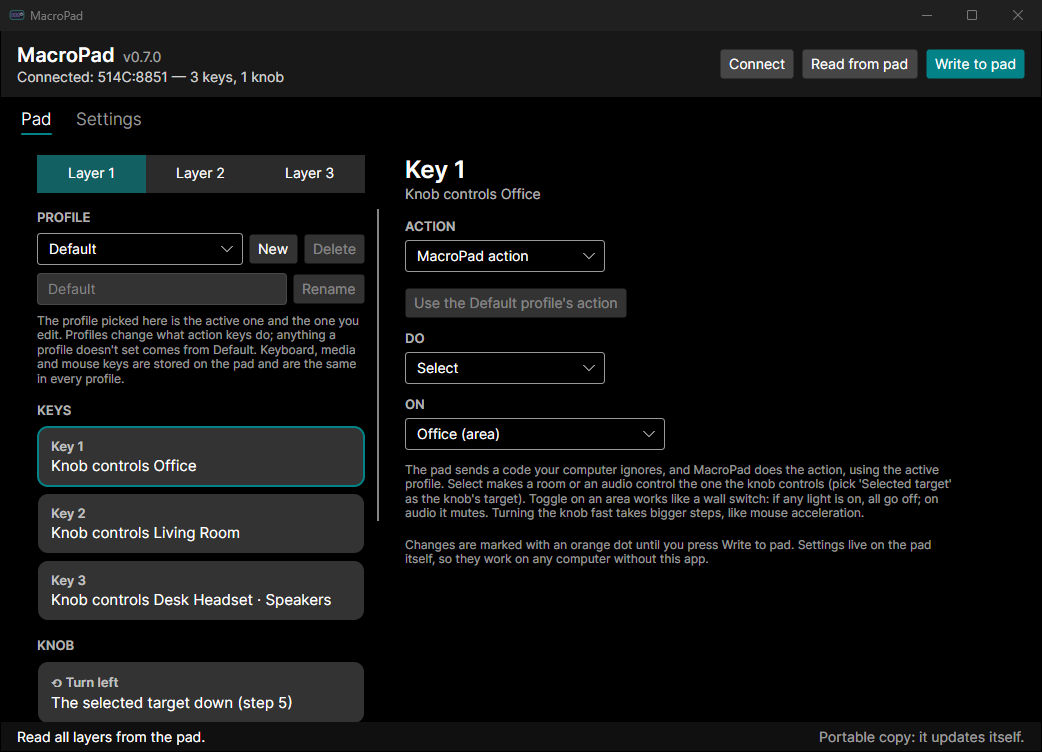
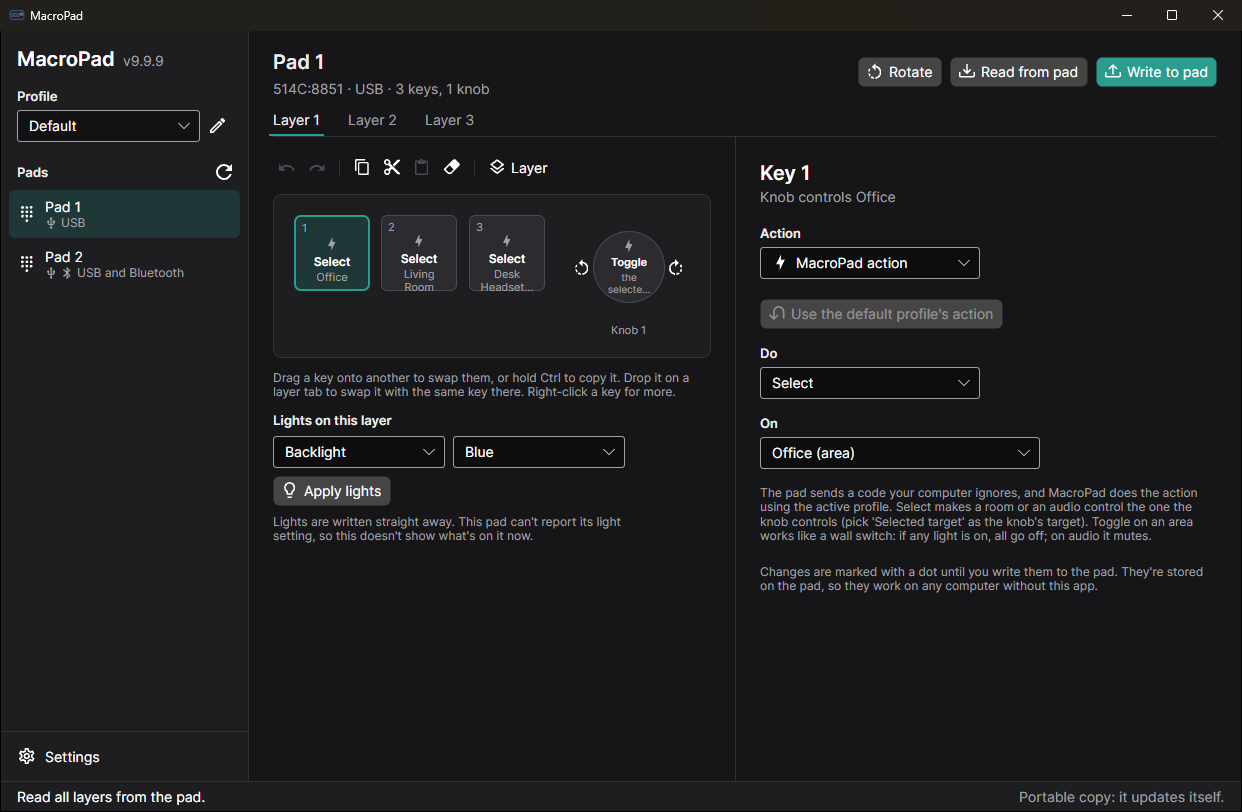
Docs and screenshots for the new window; quieter disabled knobs
AGENTS.md describes the views, view models, themes and icon tool and how
editing and undo work; the README covers editing, the 12-key pad's
lights and Bluetooth, with new screenshots against the fake services.
The screenshot script clicks the sidebar and adds the 12-key pad.

diff --git a/README.md b/README.md
@@ -13,11 +13,11 @@ MacroPad does two things:
    [Bragi](https://github.com/NickMarcha/bragi), or switch MacroPad's **profiles** (virtual layers that change what those keys do). For these,
    MacroPad runs in the tray and shows a pop-up for each change.
 
-![The Pad tab: layers, the profile, and each key's action](docs/images/pad.png)
+![A pad drawn as it is, its keys' actions, and the selected key's editor](docs/images/pad.png)
 
-| Settings | Pop-up |
-|---|---|
-| ![The Settings tab with the connections list](docs/images/settings.png) | ![A pop-up showing a room's brightness with a slider](docs/images/popup.png) |
+| The 12-key pad | Settings | Pop-up |
+|---|---|---|
+| ![The 12-key two-knob pad on its second layer](docs/images/pad-12.png) | ![Settings with the connections list and the pop-up position](docs/images/settings.png) | ![A pop-up showing a room's brightness with a slider](docs/images/popup.png) |
 
 ## Install
 
@@ -32,19 +32,33 @@ MacroPad does two things:
 
 ## 1. Programming the pad
 
-The **Pad** tab reads all three of the pad's layers. Pick a key or a knob action (turn left, press, turn right),
-choose what it does, and press *Write to pad*:
+Pick a pad in the sidebar and MacroPad reads all three of its layers and draws the pad as it looks. Click a key or a
+knob (turn left, press, turn right), choose what it does, and press *Write to pad*:
 
 - a keyboard shortcut, or a macro of up to 18 steps with an optional delay between them. Record the steps by
   pressing keys, or pick keys by name (F13–F24, or keys the OS grabs);
 - a media key (volume, play/pause, next track, …);
 - a mouse click, wheel or move, with modifiers held.
 
-The lights are set per layer (mode and color). Which layer the pad is on is chosen on the pad itself.
+Changed keys get a dot until they're written. Editing works like elsewhere:
 
-Tested with USB IDs `514C:8851` (3 keys, 1 knob) and `514C:8850` (12 keys, 2 knobs). The 12-key pad's keys are
-set over USB; its MacroPad actions also work over Bluetooth once it's paired in Windows. MacroPad doesn't set its
-lights yet. MacroPad also looks for the
+- *Undo* and *Redo* (Ctrl+Z, Ctrl+Y) go back and forth through every change since the pad was read;
+- *Copy*, *Cut*, *Paste* and *Clear* (Ctrl+C, Ctrl+X, Ctrl+V, Delete) work on the selected key;
+- drag a key onto another to swap them, or hold Ctrl to copy it; drop it on a layer tab to swap it with the same key
+  on that layer. Right-click a key for the same;
+- the *Layer* menu copies, swaps or clears a whole layer.
+
+*Rotate* turns the drawing to match how the pad sits on your desk, and clicking the pad's name renames it. Which
+layer the pad is on is chosen on the pad itself.
+
+**Lights.** The 3-key pad takes a mode and colour per layer. The 12-key pad has a colour per key: switch to
+*Lights*, pick a mode (on, when pressed, spreading from the press, rainbow, wave) and click keys to colour them. The
+same copy, paste, drag and undo work on colours. Its lights change on the pad as you edit them.
+
+**Bluetooth.** The 12-key pad's keys are set over USB. Paired in Windows, its MacroPad actions also work over
+Bluetooth, and the sidebar shows whether it's on USB, Bluetooth or both.
+
+Tested with USB IDs `514C:8851` (3 keys, 1 knob) and `514C:8850` (12 keys, 2 knobs). MacroPad also looks for the
 other IDs the vendor app supports (`1189`/`514C` with PIDs `8830`–`8833`, `8840`, `8842`), but those have not been
 tested.
 [docs/protocol.md](docs/protocol.md) describes how the protocol was worked out.
@@ -92,28 +106,30 @@ The profile picked in the window is the active one and the one you edit. To swit
   `macropad --profile next` or `macropad --profile <name>` (on Linux, in your desktop's keyboard settings);
 - the command line: a second `macropad` hands its arguments to the running one, so only one ever runs.
 
-**Export and import.** Under the profile list, *Export* saves the profile you're editing (or all of them) to a
-`.macropad.json` file, and *Import* adds the profiles from one; a name that's taken gets "(2)". The file holds only
-the profiles (what each action key does, and the knob's selection), never connection settings, tokens or keys, so it's
-safe to share. Targets name Home Assistant areas and lights and Bragi controls by id, so they work where the same ones
-exist. After an import, keys the profile uses that aren't MacroPad actions on this pad yet are switched to actions and
-marked as changes: *Write to pad* finishes the job.
+**Export and import.** The pencil next to the profile has *Rename*, *New*, *Make default* and *Delete*; its *Export*
+saves the profile you're editing (or all of them) to a `.macropad.json` file, and *Import* adds the profiles from one;
+a name that's taken gets "(2)". The file holds only the profiles (what each action key does, and the knob's
+selection), never connection settings, tokens or keys, so it's safe to share. Targets name Home Assistant areas and
+lights and Bragi controls by id, so they work where the same ones exist. After an import, keys the profile uses that
+aren't MacroPad actions on this pad yet are switched to actions and marked as changes: *Write to pad* finishes the
+job.
 
 Per-application profiles would build on this: a rule that picks the profile for the app in front.
 
 ### Several pads
 
 MacroPad works with several pads at once, also several of the same model. Each pad gets a number, and its action keys
-send codes from that number's own block, so a press says which pad it came from whichever USB port it's in. With
-more than one plugged in, a list in the header picks the pad to edit. Profiles cover all pads: a profile can give each
+send codes from that number's own block, so a press says which pad it came from whichever USB port it's in. The
+sidebar lists them; a pad you've named, or one paired over Bluetooth, stays listed while it's unplugged. Profiles cover all pads: a profile can give each
 pad's keys their own actions.
 
 A pad is recognised by its USB serial number. Pads that share a serial (cheap ones from one batch can) are told apart
-by their USB port instead; keep each in its port. Only one pad has been tested so far.
+by their USB port instead; keep each in its port. Two pads of different models have been tested together.
 
 ## Connections
 
-Settings → **Connections** lists the services MacroPad drives. Each one, once connected, adds its lights or audio
+**Settings** (bottom of the sidebar) holds what applies to the whole app: connections, theme (System, Dark, Light),
+pop-ups and the profile shortcut. **Connections** lists the services MacroPad drives. Each one, once connected, adds its lights or audio
 controls to the targets an action can use.
 
 ### Home Assistant (lights)
@@ -201,7 +217,8 @@ covers the one-time AUR setup).
   settings (`AppSettings.cs`), targets and the service interface (`Target.cs`), the knob's dial (`LevelDial.cs`),
   the Home Assistant client (`HomeAssistant/`), the Bragi client (`Bragi/`), key and media names, and install
   detection and self-update (`Updates/`).
-- `src/MacroPad.App`: the Avalonia UI.
+- `src/MacroPad.App`: the Avalonia UI. Colours, sizes and icons live in `Themes/`, so another theme is one more
+  dictionary there.
 - `tests/MacroPad.Core.Tests`: protocol tests built from real reports the pad sent, and tests for the services,
   profiles, the dial and updates.
 - `packaging/`: the Linux desktop entry, icon and udev rule, and the AUR package.
@@ -212,8 +229,8 @@ covers the one-time AUR setup).
 
 ## Known limitations
 
-- The pad cannot report its current light setting, so the lights panel shows what you are about to set, not what is
-  on the pad now.
+- The 3-key pad cannot report its current light setting, so its lights panel shows what you are about to set, not
+  what is on the pad now. The 12-key pad's lights are read from it.
 - Tested on Windows 11 and on CachyOS (KDE Plasma, the AUR package). Other Linux desktops should work but haven't
   been tried; on X11 the pop-up is a notification window, which window managers keep on top.
 - The Windows build is not code-signed, so SmartScreen warns the first time it runs.

diff --git a/AGENTS.md b/AGENTS.md
@@ -39,9 +39,11 @@ dotnet publish src/MacroPad.App -c Release -r win-x64 -o out    # or linux-x64: 
 
 - `src/MacroPad.Core` (no UI):
   - `Protocol.cs`, `Bindings.cs`, `Usages.cs`, `MacroPadDevice.cs`: the pad's protocol and HID access.
-  - `PadModel.cs`: what differs per model (packet format, key layout, lights, delay); `StepProtocol.cs` the
-    `514C:8850` format.
+  - `PadModel.cs`: what differs per model (packet format, lights, delay); `StepProtocol.cs` the `514C:8850` format,
+    its per-key lights included (`KeyLights.cs`).
+  - `PadLayout.cs`: where keys and knobs sit on the drawn pad (the vendor's arrangement), and turning it.
   - `Pads.cs`: telling pads apart (USB serial, else device path); `AppSettings.PadFor` numbers them.
+    `Pads.LinkBluetooth` ties a Bluetooth address to the pad's record (`PadRecord.Bluetooth`).
   - `PadListener.cs`: reads every pad's consumer-control reports in the background (a 16-bit usage; report ID 5 over
     USB, 3 over Bluetooth, taken from the report descriptor), over USB and Bluetooth.
   - `PadAction.cs`: actions, profiles, and `Triggers` (the codes action keys send, a block of `0x60` per pad).
@@ -49,12 +51,23 @@ dotnet publish src/MacroPad.App -c Release -r win-x64 -o out    # or linux-x64: 
   - `LevelDial.cs`, `KnobAcceleration.cs`: the knob (see below).
   - `AppSettings.cs` (settings.json, secrets protected with DPAPI on Windows), `ProfileFile.cs` (export/import).
   - `Updates/`: install detection (portable, package-managed, read-only, development) and self-update.
-- `src/MacroPad.App`: Avalonia UI. `MainViewModel` is split by concern: `.cs` (pad, layers, read/write, updates),
-  `.Services.cs` (connections, settings toggles), `.Actions.cs` (what a press does), `.Profiles.cs`, `.GitHub.cs`.
-  Platform bits: `Autostart.cs`, `MenuShortcut.cs` (Start menu .lnk / desktop entry), `GlobalHotkey.cs` (Windows),
-  `X11Notification.cs` (Linux pop-up), `SingleInstance.cs`, `Program.cs` (update hand-over).
+- `src/MacroPad.App`: Avalonia UI.
+  - `Views/`: `MainWindow` (sidebar: profile, pads, Settings), `PadPage` (the drawn pad, layers, Keys/Lights; its
+    code-behind does dragging, the right-click and Layer menus and shortcuts), `SlotEditor` (one key's action),
+    `SettingsPage`, `ToastWindow` (pop-up).
+  - `ViewModels/`: `MainViewModel` is split by concern: `.cs` (pads, layers, read/write, updates), `.Edit.cs` (undo,
+    copy/paste, drag and layer operations), `.Lights.cs` (per-key lights), `.Services.cs` (connections, settings),
+    `.Actions.cs` (what a press does), `.Profiles.cs`, `.GitHub.cs`. `SlotViewModel` is one key or knob action
+    (`SlotContent` is what it holds, for copying and undo); `PadPlaces.cs` the layers and where each key is drawn;
+    `KeyLightViewModel` one key's colour.
+  - `Themes/`: `Tokens.axaml` holds every colour (Dark and Light dictionaries), radius and size; views use only these
+    (`DynamicResource`). `Controls.axaml` styles by class (`keycap`, `card`, `nav`, …). `Icons.axaml` is generated by
+    `tools/icons/make-icons.py` from Material Design Icons; don't edit it by hand. `Themes.cs` lists the choices.
+  - Platform bits: `Autostart.cs`, `MenuShortcut.cs` (Start menu .lnk / desktop entry), `GlobalHotkey.cs` (Windows),
+    `X11Notification.cs` (Linux pop-up), `SingleInstance.cs`, `Program.cs` (update hand-over).
 - `tests/MacroPad.Core.Tests`: fakes for Home Assistant and Bragi are `HttpMessageHandler`s; no network.
 - `tools/hid`: read-only Python probes for the pad. `tools/screenshots`: README screenshots against fake services.
+  `tools/icons`: regenerates `Themes/Icons.axaml`.
   `tools/linux`: Docker checks (AUR package build, pop-up window type under Xvfb).
 - `packaging/`: Linux desktop entry, icon, udev rule; `packaging/aur` the AUR package.
 
@@ -63,10 +76,14 @@ dotnet publish src/MacroPad.App -c Release -r win-x64 -o out    # or linux-x64: 
 - **Two halves.** Keyboard, media and mouse bindings are written to the pad and work without MacroPad. *MacroPad
   actions* are written to the pad as a consumer usage from `0x0F00–0x17FF` (no OS acts on these). MacroPad, in the
   tray, reads the press and looks the code up in the active profile, then the default profile (`Profiles[0]`).
+- **Editing** happens in the window and reaches the pad on Write to pad; a key is marked changed while it differs
+  from what was read (`SlotViewModel` keeps that). Per-key lights are the exception: they are written as you change
+  them, so their undo writes too. Undo records every change through `SlotViewModel.Edited` and the lights' write
+  queue, and is cleared by reading the pad or switching pad or profile.
 - **Profiles** are MacroPad's own layers: the pad's layer can't be switched from the computer. Each profile keeps its
   own *selected target* for the knob. The window edits the active profile.
 - **Services**: a target's kind picks the service (lights → Home Assistant, audio → Bragi). Adding a connection means
-  implementing `ITargetService`, adding a `TargetKind`, a connection block in Settings (`MainWindow.axaml`,
+  implementing `ITargetService`, adding a `TargetKind`, a connection block in Settings (`SettingsPage.axaml`,
   Expander under Connections) and a client in Core with tests against a fake handler.
 - **The knob** (`LevelDial`): reads the level once when turning starts, keeps the running value, sends absolute
   values (lights with `transition: 0`), and while a request is out keeps only the newest value. Relative steps
@@ -103,8 +120,11 @@ Bragi run on their tailnet; their addresses and tokens live only in the owner's 
 
 - Reading the pad is always safe (`tools/hid/probe.py`, or Read from pad). A test write goes to a slot the owner
   doesn't use, is read back, and is restored.
-- A UI check without clicking: run a published build, drive it with Windows UI Automation (tab `Settings`, button
-  `Update now`, …) and capture with `PrintWindow` (`tools/screenshots/capture.ps1` shows how).
+- A UI check without clicking: run a build, drive it with Windows UI Automation by name (`Pad 2`, `Key 5`, `Copy`,
+  `Settings`, `Update now`, …; icon buttons carry `AutomationProperties.Name`) and capture with `PrintWindow`
+  (`tools/screenshots/capture.ps1` has a `Click` helper). Check both themes.
+- Per-key lights are written the moment they change, so trying the Lights view changes the owner's pad: ask first,
+  and put the colours back after.
 - Linux: `tools/linux/popup-check.sh` (Xvfb + xprop) and `tools/linux/aur-check.sh` (makepkg + namcap) in an
   `archlinux` container. Real KDE behaviour needs the owner's machine.
 

diff --git a/tools/screenshots/README.md b/tools/screenshots/README.md
@@ -5,16 +5,19 @@
 - `fake_services.py`: a fake Home Assistant (port 8123) and Bragi (port 8765) with generic rooms (Office, Living Room,
   Bedroom) and audio (Desk Headset, studio, laptop). Keeps state, so toggles and the knob work.
 - `demo-settings.cs`: writes settings pointing at them, with a demo Default and Music profile.
-- `capture.ps1`: swaps the demo settings in (backing yours up), runs a published build, captures the Pad and Settings
-  tabs with PrintWindow, collects pop-up frames while you press pad keys, and puts your settings back. The steps are
-  at the top of the script. Output goes to `out/` (ignored by git).
+- `capture.ps1`: swaps the demo settings in (backing yours up), runs a published build, captures the first pad, the
+  12-key pad (when plugged in) and Settings with PrintWindow, collects pop-up frames while you press pad keys, and puts
+  your settings back. The steps are at the top of the script. Output goes to `out/` (ignored by git).
 
-The pop-up's corners: mask them round (radius 12) before saving, for example with Pillow:
+The keys and lights shown are whatever is on the pads, so check them for anything personal first. Pad names come from
+the demo settings ("Pad 1", "Pad 2").
+
+The pop-up's corners: mask them round (radius 8, `Radius.Card`) before saving, for example with Pillow:
 
 ```python
 from PIL import Image, ImageDraw
 im = Image.open("out/popup-00.png").convert("RGBA")
-mask = Image.new("L", im.size, 0); ImageDraw.Draw(mask).rounded_rectangle((0, 0, im.width - 1, im.height - 1), 12, fill=255)
+mask = Image.new("L", im.size, 0); ImageDraw.Draw(mask).rounded_rectangle((0, 0, im.width - 1, im.height - 1), 8, fill=255)
 im.putalpha(mask); im.save("docs/images/popup.png")
 ```
 
